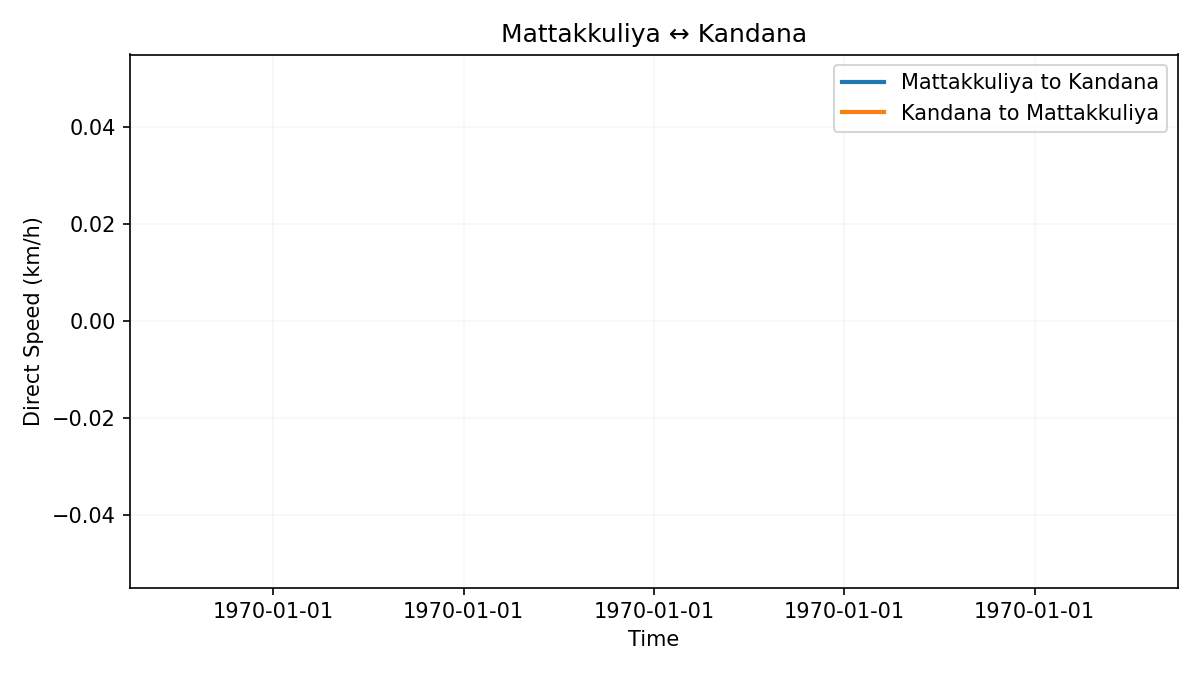
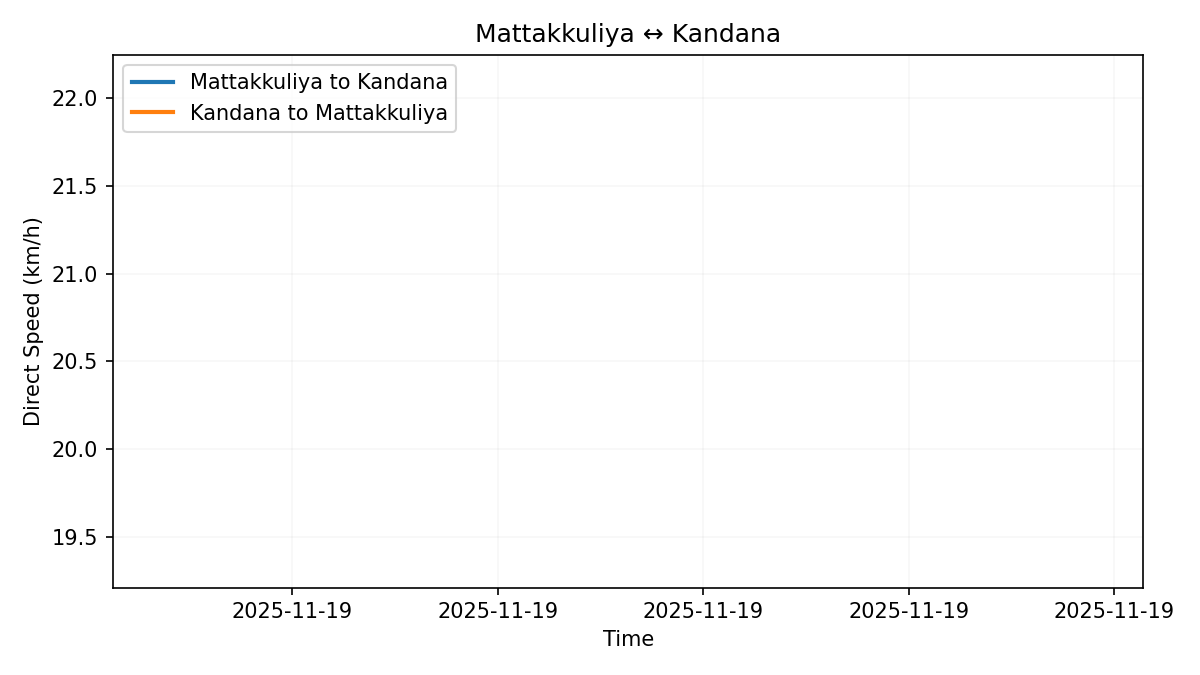
Update traffic route data and images, add new journeys from Kottawa to Pamankada, Moratuwa to Wellawatte, and Piliyandala to Pamankada

diff --git a/README.CSTI.md b/README.CSTI.md
@@ -2,7 +2,11 @@
 
 An index measuring traffic conditions between Colombo and its immediate suburbs.
 
+<<<<<<< HEAD
 ![LatestEstimateFor](https://img.shields.io/badge/latest_estimate_for-2025--11--18_19:27:42-green)
+=======
+![LatestEstimateFor](https://img.shields.io/badge/latest_estimate_for-2025--11--18_19:27:27-green)
+>>>>>>> 60e880ae2 (Update traffic route data and images, add new journeys from Kottawa to Pamankada, Moratuwa to Wellawatte, and Piliyandala to Pamankada)
 
 ## Definitions, Vision and Big-Picture
 
